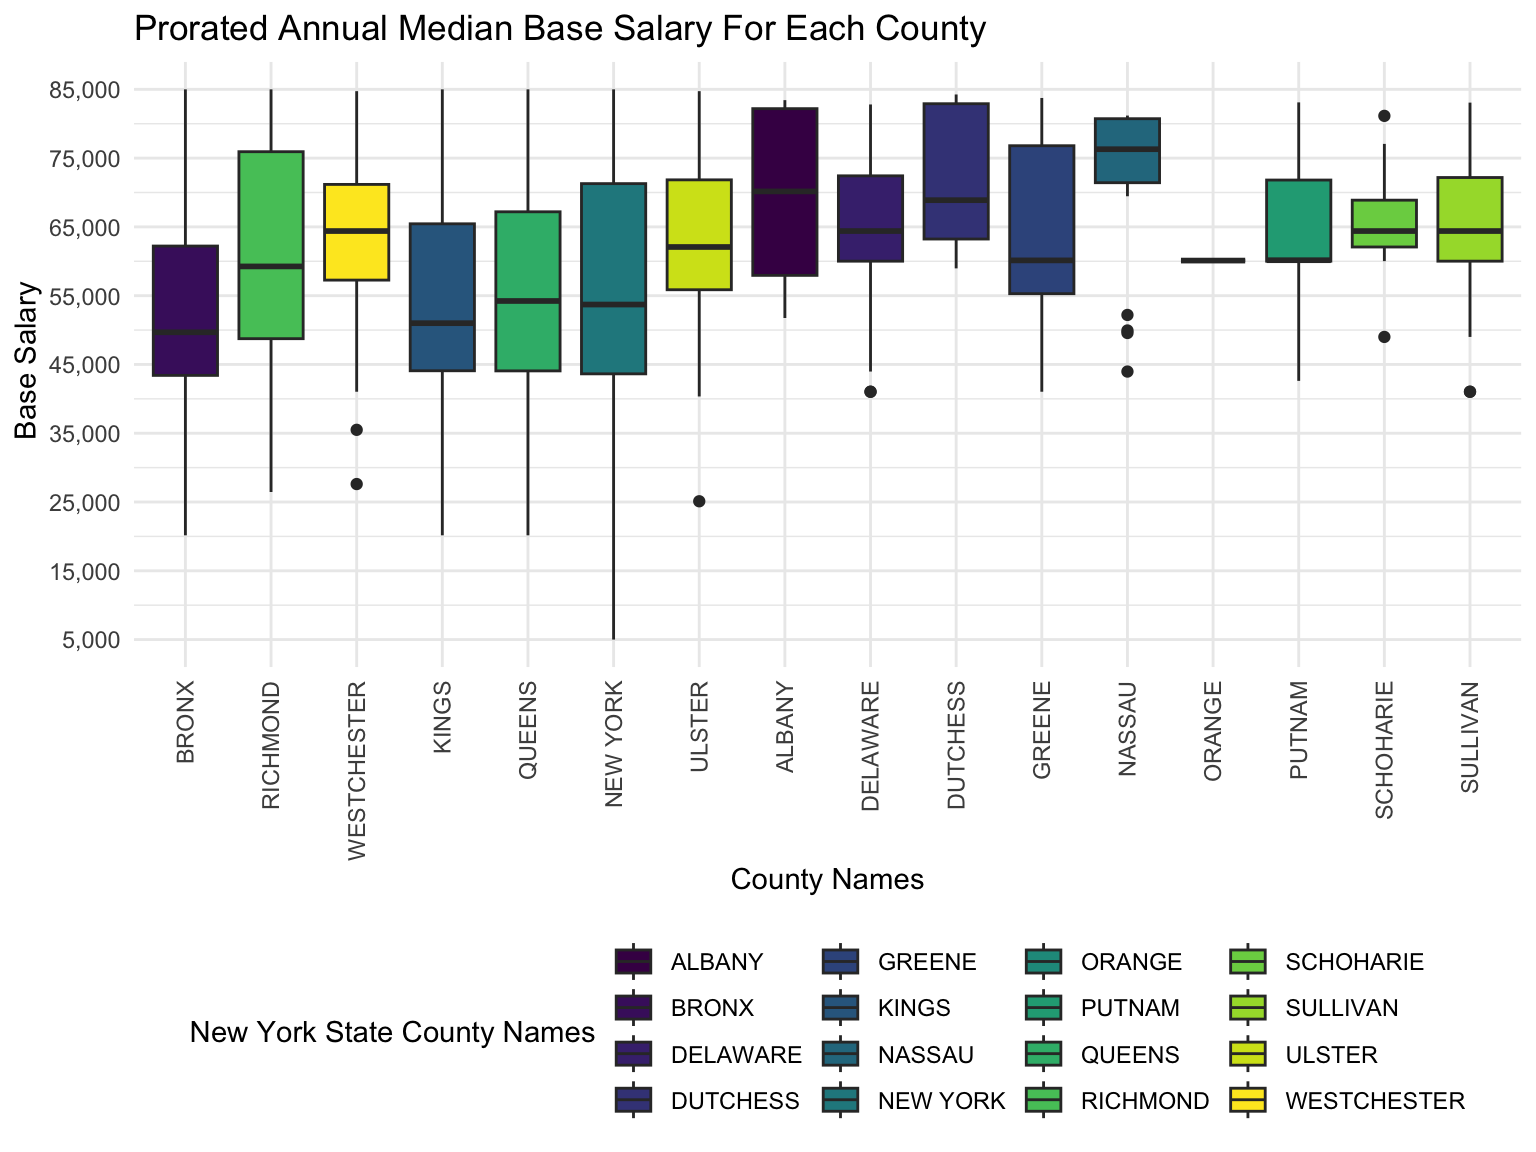
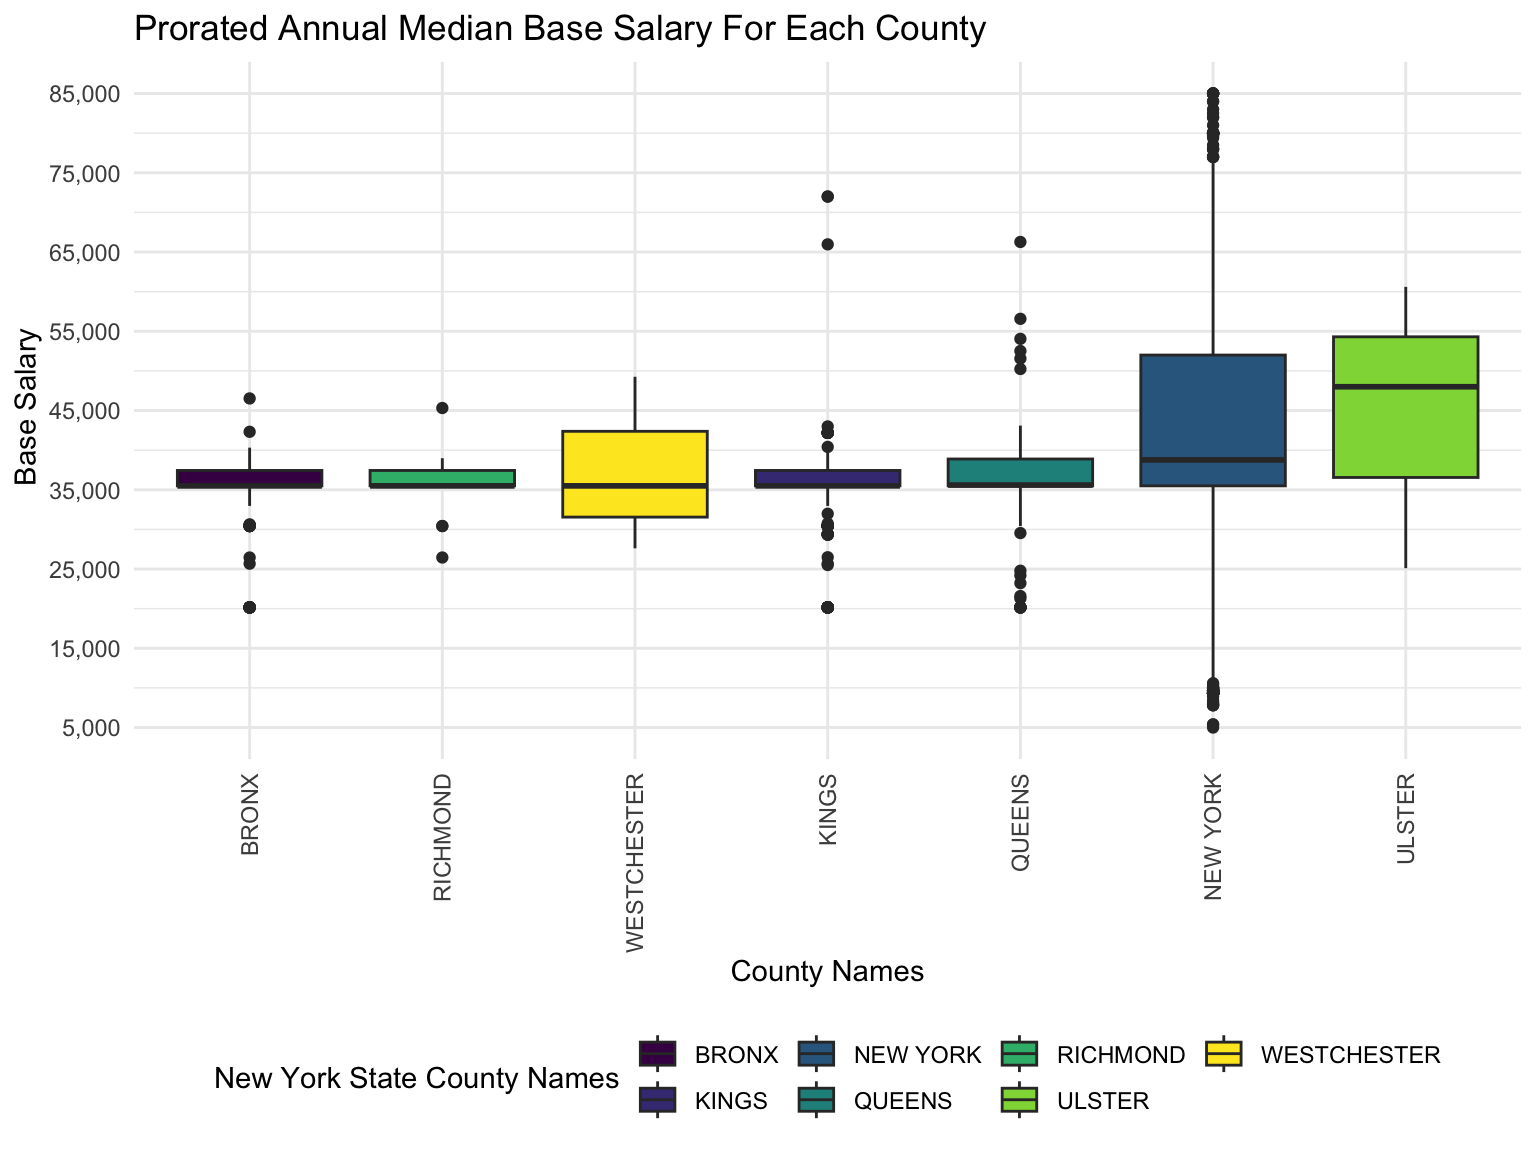
changes made on the base salary

diff --git a/base_salary.html b/base_salary.html
@@ -417,12 +417,12 @@ div.tocify {
 <div id="mean-base-salary-by-new-york-counties" class="section level3">
 <h3>Mean Base Salary By New York Counties</h3>
 <pre class="r"><code>library(tidyverse)</code></pre>
-<pre><code>## ── Attaching packages ──────────────────────────────────────────────────────── tidyverse 1.3.2 ──
+<pre><code>## ── Attaching packages ─────────────────────────────────────── tidyverse 1.3.2 ──
 ## ✔ ggplot2 3.4.0      ✔ purrr   0.3.4 
 ## ✔ tibble  3.1.8      ✔ dplyr   1.0.10
 ## ✔ tidyr   1.2.1      ✔ stringr 1.4.1 
 ## ✔ readr   2.1.2      ✔ forcats 0.5.2 
-## ── Conflicts ─────────────────────────────────────────────────────────── tidyverse_conflicts() ──
+## ── Conflicts ────────────────────────────────────────── tidyverse_conflicts() ──
 ## ✖ dplyr::filter() masks stats::filter()
 ## ✖ dplyr::lag()    masks stats::lag()</code></pre>
 <pre class="r"><code>library(janitor)</code></pre>
@@ -467,7 +467,7 @@ theme_set(theme_minimal() + theme(legend.position = &quot;bottom&quot;))</code><
 <pre class="r"><code>payroll_data = 
     read_csv(&quot;data/payroll_data.csv&quot;)</code></pre>
 <pre><code>## Rows: 594234 Columns: 10
-## ── Column specification ─────────────────────────────────────────────────────────────────────────
+## ── Column specification ────────────────────────────────────────────────────────
 ## Delimiter: &quot;,&quot;
 ## chr (5): agency_name, pay_basis, leave_status, county_name, job_title
 ## dbl (5): fiscal_year, start_year, base_salary, total_ot_paid, total_other_pay
@@ -484,8 +484,8 @@ theme_set(theme_minimal() + theme(legend.position = &quot;bottom&quot;))</code><
 
 mean_base_salary_plot |&gt; layout(yaxis = list(title = &quot;Mean Base Salary&quot;),title = &quot;The Average Base Salary for Municipal Employees of New York State By County&quot;,
                 xaxis = list(title = &quot;County Names&quot;))</code></pre>
-<div id="htmlwidget-62dbd05a770d8514f46a" style="width:90%;height:576px;" class="plotly html-widget"></div>
-<script type="application/json" data-for="htmlwidget-62dbd05a770d8514f46a">{"x":{"visdat":{"60773fb19021":["function () ","plotlyVisDat"]},"cur_data":"60773fb19021","attrs":{"60773fb19021":{"x":{},"y":{},"color":{},"colors":"viridis","alpha_stroke":1,"sizes":[10,100],"spans":[1,20],"type":"bar"}},"layout":{"margin":{"b":40,"l":60,"t":25,"r":10},"yaxis":{"domain":[0,1],"automargin":true,"title":"Mean Base Salary"},"title":"The Average Base Salary for Municipal Employees of New York State By County","xaxis":{"domain":[0,1],"automargin":true,"title":"County Names","type":"category","categoryorder":"array","categoryarray":["NASSAU","NEW YORK","DUTCHESS","BRONX","GREENE","ORANGE","RICHMOND","QUEENS","KINGS","PUTNAM","DELAWARE","SCHOHARIE","WESTCHESTER","SULLIVAN","ULSTER","ALBANY"]},"hovermode":"closest","showlegend":true},"source":"A","config":{"modeBarButtonsToAdd":["hoverclosest","hovercompare"],"showSendToCloud":false},"data":[{"x":["ALBANY"],"y":[104555.301538462],"type":"bar","name":"ALBANY","marker":{"color":"rgba(68,1,84,1)","line":{"color":"rgba(68,1,84,1)"}},"textfont":{"color":"rgba(68,1,84,1)"},"error_y":{"color":"rgba(68,1,84,1)"},"error_x":{"color":"rgba(68,1,84,1)"},"xaxis":"x","yaxis":"y","frame":null},{"x":["BRONX"],"y":[57761.628897458],"type":"bar","name":"BRONX","marker":{"color":"rgba(72,26,108,1)","line":{"color":"rgba(72,26,108,1)"}},"textfont":{"color":"rgba(72,26,108,1)"},"error_y":{"color":"rgba(72,26,108,1)"},"error_x":{"color":"rgba(72,26,108,1)"},"xaxis":"x","yaxis":"y","frame":null},{"x":["DELAWARE"],"y":[67526.5163414634],"type":"bar","name":"DELAWARE","marker":{"color":"rgba(71,47,125,1)","line":{"color":"rgba(71,47,125,1)"}},"textfont":{"color":"rgba(71,47,125,1)"},"error_y":{"color":"rgba(71,47,125,1)"},"error_x":{"color":"rgba(71,47,125,1)"},"xaxis":"x","yaxis":"y","frame":null},{"x":["DUTCHESS"],"y":[57759.7223333333],"type":"bar","name":"DUTCHESS","marker":{"color":"rgba(65,68,135,1)","line":{"color":"rgba(65,68,135,1)"}},"textfont":{"color":"rgba(65,68,135,1)"},"error_y":{"color":"rgba(65,68,135,1)"},"error_x":{"color":"rgba(65,68,135,1)"},"xaxis":"x","yaxis":"y","frame":null},{"x":["GREENE"],"y":[59582.792],"type":"bar","name":"GREENE","marker":{"color":"rgba(57,86,140,1)","line":{"color":"rgba(57,86,140,1)"}},"textfont":{"color":"rgba(57,86,140,1)"},"error_y":{"color":"rgba(57,86,140,1)"},"error_x":{"color":"rgba(57,86,140,1)"},"xaxis":"x","yaxis":"y","frame":null},{"x":["KINGS"],"y":[62639.2342540392],"type":"bar","name":"KINGS","marker":{"color":"rgba(49,104,142,1)","line":{"color":"rgba(49,104,142,1)"}},"textfont":{"color":"rgba(49,104,142,1)"},"error_y":{"color":"rgba(49,104,142,1)"},"error_x":{"color":"rgba(49,104,142,1)"},"xaxis":"x","yaxis":"y","frame":null},{"x":["NASSAU"],"y":[33390.8795121951],"type":"bar","name":"NASSAU","marker":{"color":"rgba(42,120,142,1)","line":{"color":"rgba(42,120,142,1)"}},"textfont":{"color":"rgba(42,120,142,1)"},"error_y":{"color":"rgba(42,120,142,1)"},"error_x":{"color":"rgba(42,120,142,1)"},"xaxis":"x","yaxis":"y","frame":null},{"x":["NEW YORK"],"y":[42830.7116725727],"type":"bar","name":"NEW YORK","marker":{"color":"rgba(35,136,142,1)","line":{"color":"rgba(35,136,142,1)"}},"textfont":{"color":"rgba(35,136,142,1)"},"error_y":{"color":"rgba(35,136,142,1)"},"error_x":{"color":"rgba(35,136,142,1)"},"xaxis":"x","yaxis":"y","frame":null},{"x":["ORANGE"],"y":[60103],"type":"bar","name":"ORANGE","marker":{"color":"rgba(31,152,139,1)","line":{"color":"rgba(31,152,139,1)"}},"textfont":{"color":"rgba(31,152,139,1)"},"error_y":{"color":"rgba(31,152,139,1)"},"error_x":{"color":"rgba(31,152,139,1)"},"xaxis":"x","yaxis":"y","frame":null},{"x":["PUTNAM"],"y":[63990.3678571429],"type":"bar","name":"PUTNAM","marker":{"color":"rgba(34,168,132,1)","line":{"color":"rgba(34,168,132,1)"}},"textfont":{"color":"rgba(34,168,132,1)"},"error_y":{"color":"rgba(34,168,132,1)"},"error_x":{"color":"rgba(34,168,132,1)"},"xaxis":"x","yaxis":"y","frame":null},{"x":["QUEENS"],"y":[61691.259764459],"type":"bar","name":"QUEENS","marker":{"color":"rgba(53,183,121,1)","line":{"color":"rgba(53,183,121,1)"}},"textfont":{"color":"rgba(53,183,121,1)"},"error_y":{"color":"rgba(53,183,121,1)"},"error_x":{"color":"rgba(53,183,121,1)"},"xaxis":"x","yaxis":"y","frame":null},{"x":["RICHMOND"],"y":[60632.5404783599],"type":"bar","name":"RICHMOND","marker":{"color":"rgba(84,197,104,1)","line":{"color":"rgba(84,197,104,1)"}},"textfont":{"color":"rgba(84,197,104,1)"},"error_y":{"color":"rgba(84,197,104,1)"},"error_x":{"color":"rgba(84,197,104,1)"},"xaxis":"x","yaxis":"y","frame":null},{"x":["SCHOHARIE"],"y":[69430.2665517241],"type":"bar","name":"SCHOHARIE","marker":{"color":"rgba(122,209,81,1)","line":{"color":"rgba(122,209,81,1)"}},"textfont":{"color":"rgba(122,209,81,1)"},"error_y":{"color":"rgba(122,209,81,1)"},"error_x":{"color":"rgba(122,209,81,1)"},"xaxis":"x","yaxis":"y","frame":null},{"x":["SULLIVAN"],"y":[73313.480390625],"type":"bar","name":"SULLIVAN","marker":{"color":"rgba(165,219,54,1)","line":{"color":"rgba(165,219,54,1)"}},"textfont":{"color":"rgba(165,219,54,1)"},"error_y":{"color":"rgba(165,219,54,1)"},"error_x":{"color":"rgba(165,219,54,1)"},"xaxis":"x","yaxis":"y","frame":null},{"x":["ULSTER"],"y":[77192.0401796407],"type":"bar","name":"ULSTER","marker":{"color":"rgba(210,226,27,1)","line":{"color":"rgba(210,226,27,1)"}},"textfont":{"color":"rgba(210,226,27,1)"},"error_y":{"color":"rgba(210,226,27,1)"},"error_x":{"color":"rgba(210,226,27,1)"},"xaxis":"x","yaxis":"y","frame":null},{"x":["WESTCHESTER"],"y":[70692.0269087523],"type":"bar","name":"WESTCHESTER","marker":{"color":"rgba(253,231,37,1)","line":{"color":"rgba(253,231,37,1)"}},"textfont":{"color":"rgba(253,231,37,1)"},"error_y":{"color":"rgba(253,231,37,1)"},"error_x":{"color":"rgba(253,231,37,1)"},"xaxis":"x","yaxis":"y","frame":null}],"highlight":{"on":"plotly_click","persistent":false,"dynamic":false,"selectize":false,"opacityDim":0.2,"selected":{"opacity":1},"debounce":0},"shinyEvents":["plotly_hover","plotly_click","plotly_selected","plotly_relayout","plotly_brushed","plotly_brushing","plotly_clickannotation","plotly_doubleclick","plotly_deselect","plotly_afterplot","plotly_sunburstclick"],"base_url":"https://plot.ly"},"evals":[],"jsHooks":[]}</script>
+<div id="htmlwidget-f2bc924dc52ff33374e4" style="width:90%;height:576px;" class="plotly html-widget"></div>
+<script type="application/json" data-for="htmlwidget-f2bc924dc52ff33374e4">{"x":{"visdat":{"62ff5189bca3":["function () ","plotlyVisDat"]},"cur_data":"62ff5189bca3","attrs":{"62ff5189bca3":{"x":{},"y":{},"color":{},"colors":"viridis","alpha_stroke":1,"sizes":[10,100],"spans":[1,20],"type":"bar"}},"layout":{"margin":{"b":40,"l":60,"t":25,"r":10},"yaxis":{"domain":[0,1],"automargin":true,"title":"Mean Base Salary"},"title":"The Average Base Salary for Municipal Employees of New York State By County","xaxis":{"domain":[0,1],"automargin":true,"title":"County Names","type":"category","categoryorder":"array","categoryarray":["NASSAU","NEW YORK","DUTCHESS","BRONX","GREENE","ORANGE","RICHMOND","QUEENS","KINGS","PUTNAM","DELAWARE","SCHOHARIE","WESTCHESTER","SULLIVAN","ULSTER","ALBANY"]},"hovermode":"closest","showlegend":true},"source":"A","config":{"modeBarButtonsToAdd":["hoverclosest","hovercompare"],"showSendToCloud":false},"data":[{"x":["ALBANY"],"y":[104555.301538462],"type":"bar","name":"ALBANY","marker":{"color":"rgba(68,1,84,1)","line":{"color":"rgba(68,1,84,1)"}},"textfont":{"color":"rgba(68,1,84,1)"},"error_y":{"color":"rgba(68,1,84,1)"},"error_x":{"color":"rgba(68,1,84,1)"},"xaxis":"x","yaxis":"y","frame":null},{"x":["BRONX"],"y":[57761.628897458],"type":"bar","name":"BRONX","marker":{"color":"rgba(72,26,108,1)","line":{"color":"rgba(72,26,108,1)"}},"textfont":{"color":"rgba(72,26,108,1)"},"error_y":{"color":"rgba(72,26,108,1)"},"error_x":{"color":"rgba(72,26,108,1)"},"xaxis":"x","yaxis":"y","frame":null},{"x":["DELAWARE"],"y":[67526.5163414634],"type":"bar","name":"DELAWARE","marker":{"color":"rgba(71,47,125,1)","line":{"color":"rgba(71,47,125,1)"}},"textfont":{"color":"rgba(71,47,125,1)"},"error_y":{"color":"rgba(71,47,125,1)"},"error_x":{"color":"rgba(71,47,125,1)"},"xaxis":"x","yaxis":"y","frame":null},{"x":["DUTCHESS"],"y":[57759.7223333333],"type":"bar","name":"DUTCHESS","marker":{"color":"rgba(65,68,135,1)","line":{"color":"rgba(65,68,135,1)"}},"textfont":{"color":"rgba(65,68,135,1)"},"error_y":{"color":"rgba(65,68,135,1)"},"error_x":{"color":"rgba(65,68,135,1)"},"xaxis":"x","yaxis":"y","frame":null},{"x":["GREENE"],"y":[59582.792],"type":"bar","name":"GREENE","marker":{"color":"rgba(57,86,140,1)","line":{"color":"rgba(57,86,140,1)"}},"textfont":{"color":"rgba(57,86,140,1)"},"error_y":{"color":"rgba(57,86,140,1)"},"error_x":{"color":"rgba(57,86,140,1)"},"xaxis":"x","yaxis":"y","frame":null},{"x":["KINGS"],"y":[62639.2342540392],"type":"bar","name":"KINGS","marker":{"color":"rgba(49,104,142,1)","line":{"color":"rgba(49,104,142,1)"}},"textfont":{"color":"rgba(49,104,142,1)"},"error_y":{"color":"rgba(49,104,142,1)"},"error_x":{"color":"rgba(49,104,142,1)"},"xaxis":"x","yaxis":"y","frame":null},{"x":["NASSAU"],"y":[33390.8795121951],"type":"bar","name":"NASSAU","marker":{"color":"rgba(42,120,142,1)","line":{"color":"rgba(42,120,142,1)"}},"textfont":{"color":"rgba(42,120,142,1)"},"error_y":{"color":"rgba(42,120,142,1)"},"error_x":{"color":"rgba(42,120,142,1)"},"xaxis":"x","yaxis":"y","frame":null},{"x":["NEW YORK"],"y":[42830.7116725727],"type":"bar","name":"NEW YORK","marker":{"color":"rgba(35,136,142,1)","line":{"color":"rgba(35,136,142,1)"}},"textfont":{"color":"rgba(35,136,142,1)"},"error_y":{"color":"rgba(35,136,142,1)"},"error_x":{"color":"rgba(35,136,142,1)"},"xaxis":"x","yaxis":"y","frame":null},{"x":["ORANGE"],"y":[60103],"type":"bar","name":"ORANGE","marker":{"color":"rgba(31,152,139,1)","line":{"color":"rgba(31,152,139,1)"}},"textfont":{"color":"rgba(31,152,139,1)"},"error_y":{"color":"rgba(31,152,139,1)"},"error_x":{"color":"rgba(31,152,139,1)"},"xaxis":"x","yaxis":"y","frame":null},{"x":["PUTNAM"],"y":[63990.3678571429],"type":"bar","name":"PUTNAM","marker":{"color":"rgba(34,168,132,1)","line":{"color":"rgba(34,168,132,1)"}},"textfont":{"color":"rgba(34,168,132,1)"},"error_y":{"color":"rgba(34,168,132,1)"},"error_x":{"color":"rgba(34,168,132,1)"},"xaxis":"x","yaxis":"y","frame":null},{"x":["QUEENS"],"y":[61691.259764459],"type":"bar","name":"QUEENS","marker":{"color":"rgba(53,183,121,1)","line":{"color":"rgba(53,183,121,1)"}},"textfont":{"color":"rgba(53,183,121,1)"},"error_y":{"color":"rgba(53,183,121,1)"},"error_x":{"color":"rgba(53,183,121,1)"},"xaxis":"x","yaxis":"y","frame":null},{"x":["RICHMOND"],"y":[60632.5404783599],"type":"bar","name":"RICHMOND","marker":{"color":"rgba(84,197,104,1)","line":{"color":"rgba(84,197,104,1)"}},"textfont":{"color":"rgba(84,197,104,1)"},"error_y":{"color":"rgba(84,197,104,1)"},"error_x":{"color":"rgba(84,197,104,1)"},"xaxis":"x","yaxis":"y","frame":null},{"x":["SCHOHARIE"],"y":[69430.2665517241],"type":"bar","name":"SCHOHARIE","marker":{"color":"rgba(122,209,81,1)","line":{"color":"rgba(122,209,81,1)"}},"textfont":{"color":"rgba(122,209,81,1)"},"error_y":{"color":"rgba(122,209,81,1)"},"error_x":{"color":"rgba(122,209,81,1)"},"xaxis":"x","yaxis":"y","frame":null},{"x":["SULLIVAN"],"y":[73313.480390625],"type":"bar","name":"SULLIVAN","marker":{"color":"rgba(165,219,54,1)","line":{"color":"rgba(165,219,54,1)"}},"textfont":{"color":"rgba(165,219,54,1)"},"error_y":{"color":"rgba(165,219,54,1)"},"error_x":{"color":"rgba(165,219,54,1)"},"xaxis":"x","yaxis":"y","frame":null},{"x":["ULSTER"],"y":[77192.0401796407],"type":"bar","name":"ULSTER","marker":{"color":"rgba(210,226,27,1)","line":{"color":"rgba(210,226,27,1)"}},"textfont":{"color":"rgba(210,226,27,1)"},"error_y":{"color":"rgba(210,226,27,1)"},"error_x":{"color":"rgba(210,226,27,1)"},"xaxis":"x","yaxis":"y","frame":null},{"x":["WESTCHESTER"],"y":[70692.0269087523],"type":"bar","name":"WESTCHESTER","marker":{"color":"rgba(253,231,37,1)","line":{"color":"rgba(253,231,37,1)"}},"textfont":{"color":"rgba(253,231,37,1)"},"error_y":{"color":"rgba(253,231,37,1)"},"error_x":{"color":"rgba(253,231,37,1)"},"xaxis":"x","yaxis":"y","frame":null}],"highlight":{"on":"plotly_click","persistent":false,"dynamic":false,"selectize":false,"opacityDim":0.2,"selected":{"opacity":1},"debounce":0},"shinyEvents":["plotly_hover","plotly_click","plotly_selected","plotly_relayout","plotly_brushed","plotly_brushing","plotly_clickannotation","plotly_doubleclick","plotly_deselect","plotly_afterplot","plotly_sunburstclick"],"base_url":"https://plot.ly"},"evals":[],"jsHooks":[]}</script>
 <div id="base-salary" class="section level5 tabset">
 <h5 class="tabset">Base Salary</h5>
 <div id="base-salary-by-annually" class="section level6">
@@ -585,6 +585,7 @@ Median_base_salary_plot_hourly</code></pre>
     
 Median_base_salary_plot_prorated =
     payroll_data %&gt;%
+    filter(pay_basis == &quot;Prorated Annual&quot;) |&gt; 
     left_join(pay_basis_prorated_tibble,  by = &quot;county_name&quot;) %&gt;%   
     ggplot(aes(x = reorder(county_name, median_base_salary_prorated), y = base_salary, fill = county_name)) +
     geom_boxplot() +
